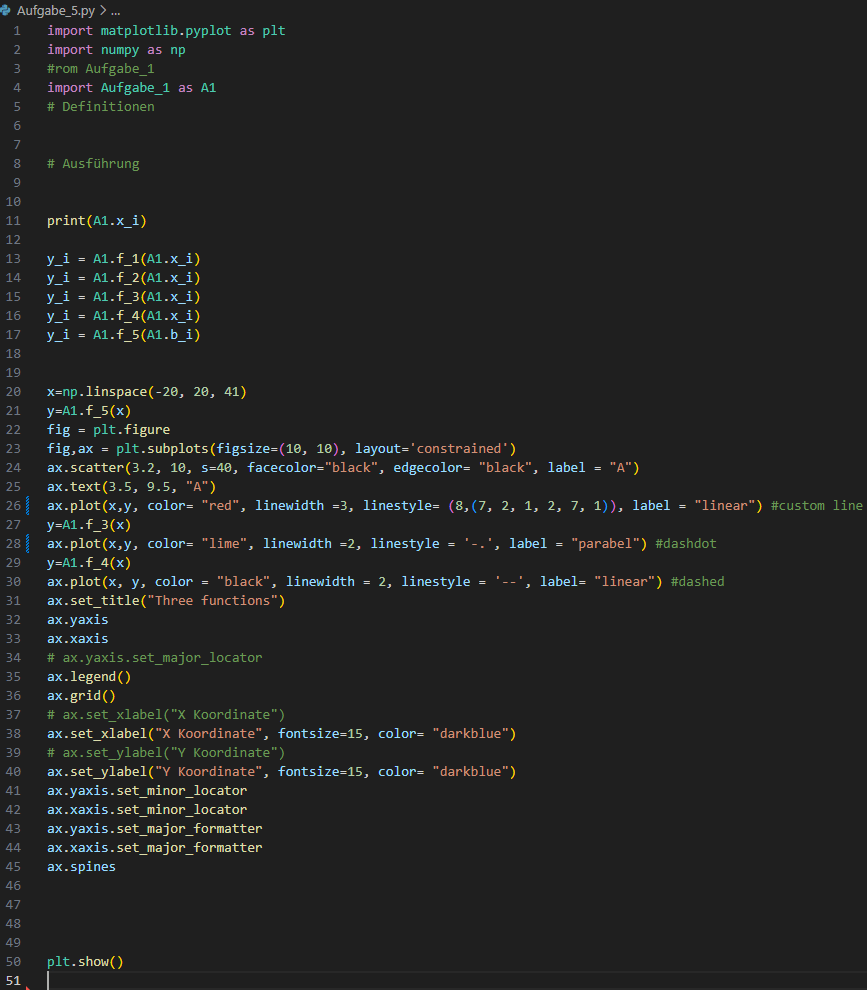
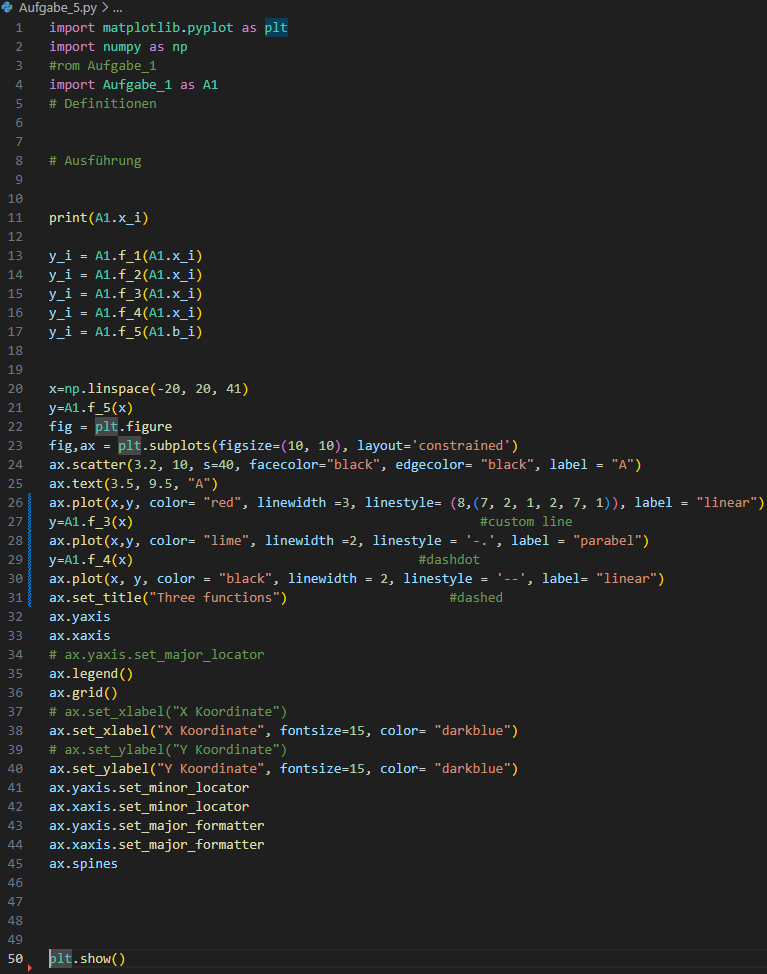
Readme und bilder

Changed region(s): [[0.0, 0.1232, 1.0, 1.0], [0.0, 0.0, 0.3898, 0.1232], [0.06, 0.154, 0.1799, 0.1848]]

diff --git a/README.md b/README.md
@@ -80,6 +80,12 @@ Eine Ausgabe soll ähnlich dieser sein:
 5. Funktion Y = b*3.14
 [0.0, 3.14, 3.14, 6.28, 9.42, 15.7, 25.12, 40.82, 65.94, 106.76, 172.7, 279.46, 452.16]
 ```
+![Aufgabe 1](_figures/A1.png)
+
+![](_figures/A1.2.png)
+
+
+
 ### Meine Notiz
 
 |Debug|-
@@ -111,8 +117,6 @@ Hier Deine Aufgabe:
 
 Dann werde ich Dir Schreibzugriff auf dieses Repository geben und auf Dich zukommen, damit wir gemeinsam Deine Lösung von Aufgabe 1 in dieses Repository hinzufügen.
 
-### Deine Lösung:
-
 ### Feedback
 
 Du hast erfolgreich ein git clone und ein Commit/ push gemacht. Kannst du die Konsolen Befehle hierzu noch angeben?
@@ -126,15 +130,14 @@ Du hast erfolgreich ein git clone und ein Commit/ push gemacht. Kannst du die Ko
 - b) Ändere die Kopie so, dass sie anstelle einer Wertetabelle ein Diagramm erzeugt, welches alle drei Graphen $f_i(x)$ mit $i = {1, 2, 3}$ darstellt.
 
 Nutze dazu das Modul `matplotlib`. Einen Einstieg dazu bekommst Du im [Getting Started](https://matplotlib.org/stable/users/getting_started/) 
-Jonas, das sieht schon sehr gut aus. Alle Funktionen sind definiert und die Ergebnisse werden geordnet ausgegeben.
 
-Dazu muss du das Module matplotlib holen. In der Console den befehl
+Dazu muss du das Module matplotlib holen. In der Console den Befehl einbinden:
 
 ```
 pip install matplotlib
 ```
 
-Dann das Module über ein import einbinden. Siehe Link oben.
+Dann das Modul über ein import einbinden. Siehe Link oben.
 
 ```import matplotlib.pyplot as plt```
 
@@ -145,6 +148,10 @@ Bitte mache folgende Erweiterung:
 
 
 ### Deine Lösung:
+
+![Aufgabe 3](_figures/A3.png)   ![Plot mit eingetragenen Graphen](_figures/A3_plot.png)
+
+
 
 
 
@@ -221,11 +228,7 @@ Nachschlagen kannst Du das hier:
 **Tipp zur Reihenfolge:** Mache immer nur *eine* Änderung und starte das Programm danach direkt neu (F5). So siehst Du sofort, was der neue Befehl bewirkt, und weißt bei einem Fehler genau, welche Zeile schuld ist.
 
 ### Deine Lösung:
-
-
-
-### Feedback
-
+![Aufgabe 5](_figures/A5.png)   ![PLot mit Legende, Linienarten und markiertem Punkt](_figures/A5_plot.png)
 
 ## Aufgabe 6
 
@@ -314,10 +317,10 @@ Wenn Du das Diagrammfenster offen hast, kannst Du die Wolke **mit der Maus drehe
 
 ### Deine Lösung:
 
-Was ist hier los? Wo ist das BIld?
+![Aufgabe 6](_figures/A6.png)
+ ![Katze als Punktewolke](_figures/A6_plot.png)
 
-```{figure}_figures/Katze.png
-```
+
 
 ### Feedback
 
@@ -330,7 +333,7 @@ Starte das SoftwareCenter auf deinem PC und installiere MashLab - dies ist ein P
 
 ### Deine Lösung:
 
-
+![meshlab mit 3D Scan](_figures/A7.png)
 
 ### Feedback
 
@@ -349,8 +352,4 @@ c) Mache einen Screenshot vom Ergbniss und lege diesen in _figures ab. Binde die
 
 ### Deine Lösung:
 
-
-
-### Feedback
-
-Zusatz: Mach auch für die anderen Aufgaben Screenshots und integriere sie in diesen Bericht. 
+![Aufgabe 8](_figures/A8.png) ![Plot mit 3D Scan](_figures/A8_plot.png) 
